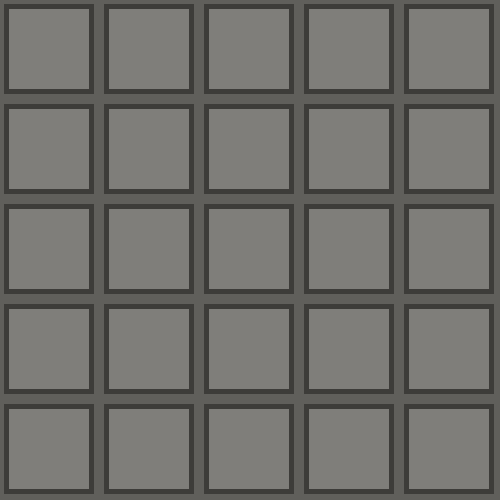
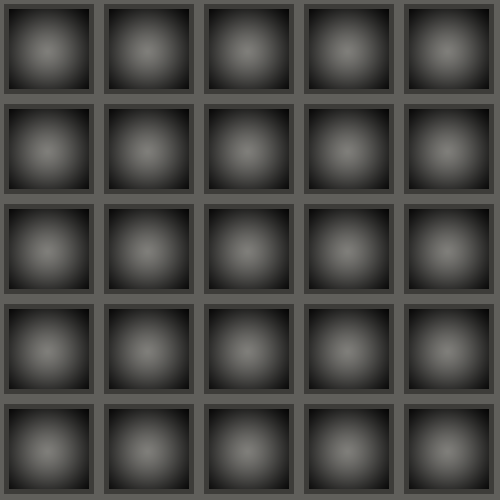
인벤토리 이미지 수정 및 인벤토리 클래스 생성

diff --git a/Darkness of Planet/Darkness of Planet/Darkness of Planet/UIObjectManager.cpp b/Darkness of Planet/Darkness of Planet/Darkness of Planet/UIObjectManager.cpp
@@ -178,7 +178,7 @@ cUIObject * UIObjectManager::GetChildByTag(string key, int tag)
 	return FindRoot(key)->GetChildByTag(tag);
 }
 
-bool UIObjectManager::GetCollidedRect(string key, float x, float y)
+bool UIObjectManager::CheckCollidedRect(string key, float x, float y)
 {
 	RECT rc;
 	FindRoot(key)->GetRect(&rc);
@@ -194,7 +194,7 @@ bool UIObjectManager::GetCollidedRect(string key, float x, float y)
 	return false;
 }
 
-bool UIObjectManager::GetCollidedRect(string key, int tag, float x, float y)
+bool UIObjectManager::CheckCollidedRect(string key, int tag, float x, float y)
 {
 	RECT rc;
 	FindRoot(key)->GetChildByTag(tag)->GetRect(&rc);

diff --git a/Darkness of Planet/Darkness of Planet/Darkness of Planet/UIObjectManager.h b/Darkness of Planet/Darkness of Planet/Darkness of Planet/UIObjectManager.h
@@ -54,8 +54,8 @@ public:
 
 	cUIObject* FindRoot(string key);
 	cUIObject* GetChildByTag(string key, int tag);
-	bool GetCollidedRect(string key, float x, float y);
-	bool GetCollidedRect(string key, int tag, float x, float y);
+	bool CheckCollidedRect(string key, float x, float y);
+	bool CheckCollidedRect(string key, int tag, float x, float y);
 	bool CheckShowState(string key);
 
 	void Setup();

diff --git a/Darkness of Planet/Darkness of Planet/Darkness of Planet/LJHcJustTestScene.cpp b/Darkness of Planet/Darkness of Planet/Darkness of Planet/LJHcJustTestScene.cpp
@@ -160,7 +160,6 @@ HRESULT LJHcJustTestScene::Setup()
 		{
 			int index = (row * 5 + col) + 1;
 			UIOBJECTMANAGER->AddChild("inventory", UITYPE_IMAGE);
-			UIOBJECTMANAGER->SetTexture("inventory", index, "UI/Icon_Empty.png");
 			UIOBJECTMANAGER->SetPosition("inventory", index, col * 100.0f + 9.0f, row * 100.0f + 9.0f);
 		}
 	}

diff --git a/Darkness of Planet/Darkness of Planet/Darkness of Planet/Inventory.cpp b/Darkness of Planet/Darkness of Planet/Darkness of Planet/Inventory.cpp
@@ -1,0 +1,12 @@
+#include "stdafx.h"
+#include "Inventory.h"
+
+
+Inventory::Inventory()
+{
+}
+
+
+Inventory::~Inventory()
+{
+}

diff --git a/Darkness of Planet/Darkness of Planet/Darkness of Planet/Inventory.h b/Darkness of Planet/Darkness of Planet/Darkness of Planet/Inventory.h
@@ -1,0 +1,8 @@
+#pragma once
+class Inventory
+{
+public:
+	Inventory();
+	~Inventory();
+};
+
